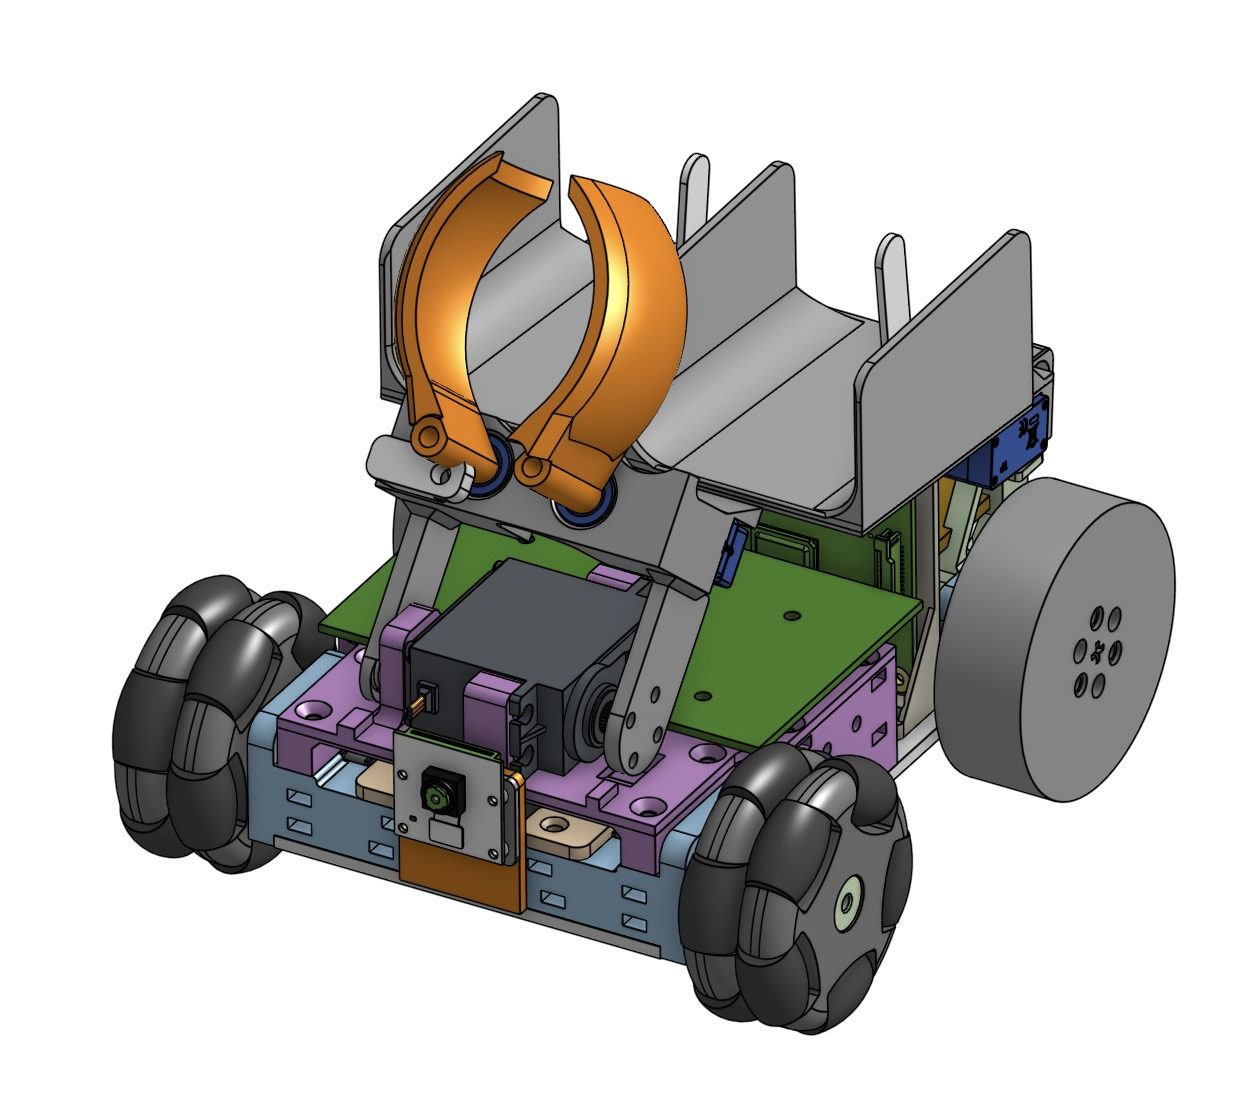
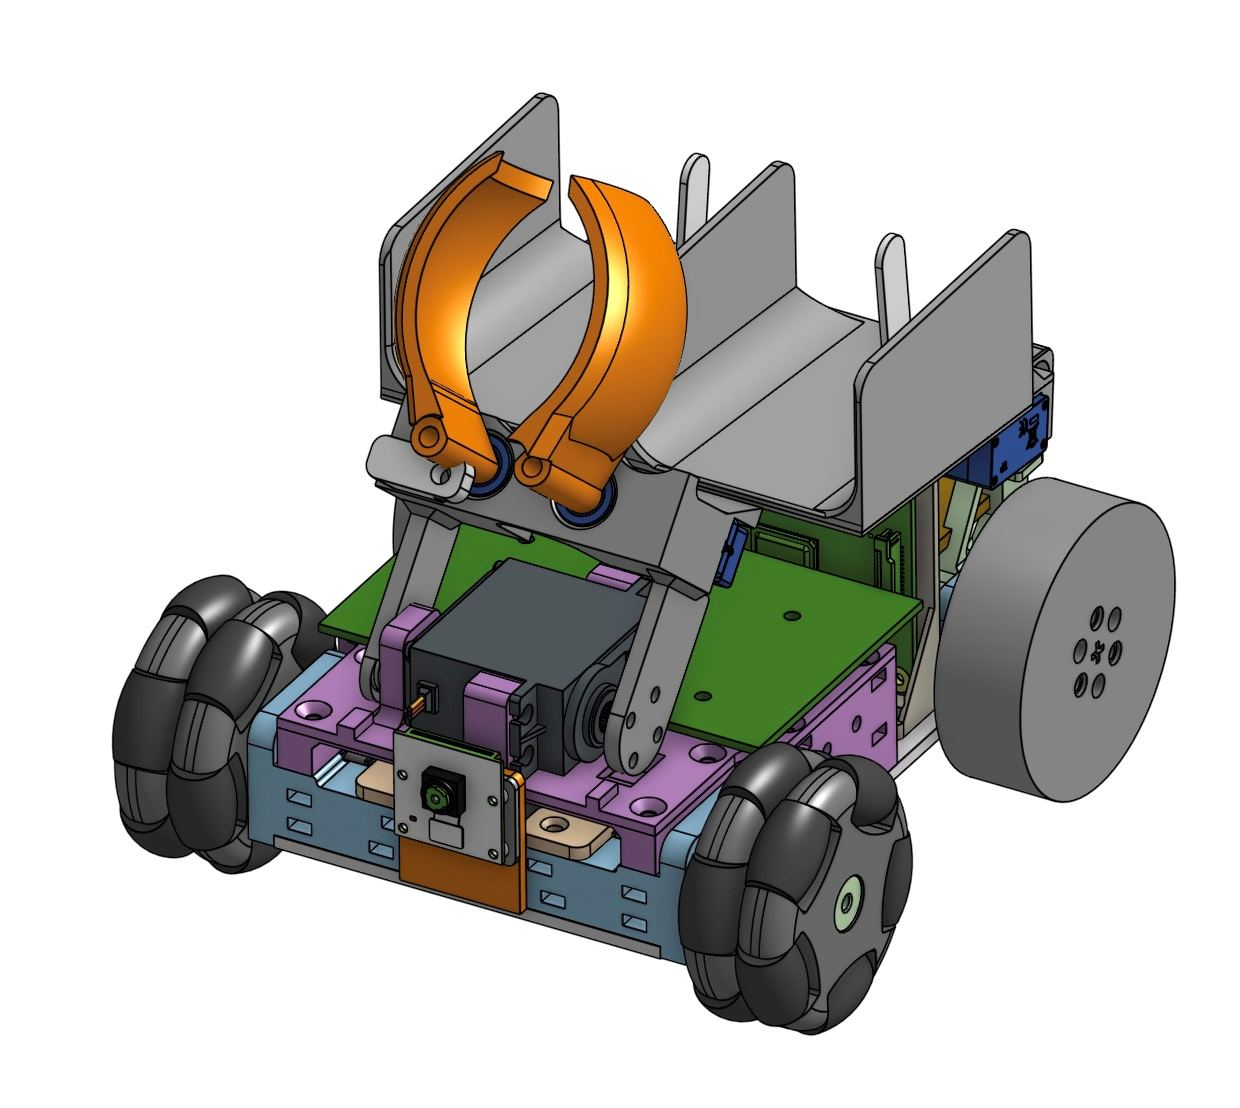
modified:   content/competitions/robocup2023/Front.jpg 	modified:   content/competitions/robocup2023/back.jpg 	modified:   content/projects/Robotic-Arm/board.jpg 	new file:   content/projects/balancing/cad.jpg 	deleted:    content/projects/balancing/cad.png 	modified:   content/projects/balancing/in

Changed region(s): [[0.3984, 0.1534, 0.5516, 0.3682], [0.3371, 0.2148, 0.3984, 0.4296], [0.429, 0.3682, 0.4597, 0.4296]]

diff --git a/layouts/index.html b/layouts/index.html
@@ -14,7 +14,7 @@
     </div>
   </div>
   <div class="hero-image">
-    <img src="/images/profile.jpeg" alt="Sanjay Ramkumar">
+    <img src="/images/profile.jpg" alt="Sanjay Ramkumar">
   </div>
 </section>
 

diff --git a/content/projects/balancing/index.md b/content/projects/balancing/index.md
@@ -18,7 +18,7 @@ This project explored control systems and mechatronics through the classic inver
 - Fabricate and assemble a physical prototype driven by live sensor feedback.
 - Build a wireless controller to retune PID gains on the fly, without reflashing firmware.
 
-{{< figure src="cad.png" alt="CAD Model of Robot" caption="CAD Model of Robot" >}}
+{{< figure src="cad.jpg" alt="CAD Model of Robot" caption="CAD Model of Robot" >}}
 
 ## Simulation and Control Design
 The dynamics, weight, center of gravity, motor torque characteristics were built out in Simulink first, so the controller could be designed and tested before any hardware existed. A cascaded PID controller was tuned around pitch angle, converting tilt into a torque command for the drive motors.
